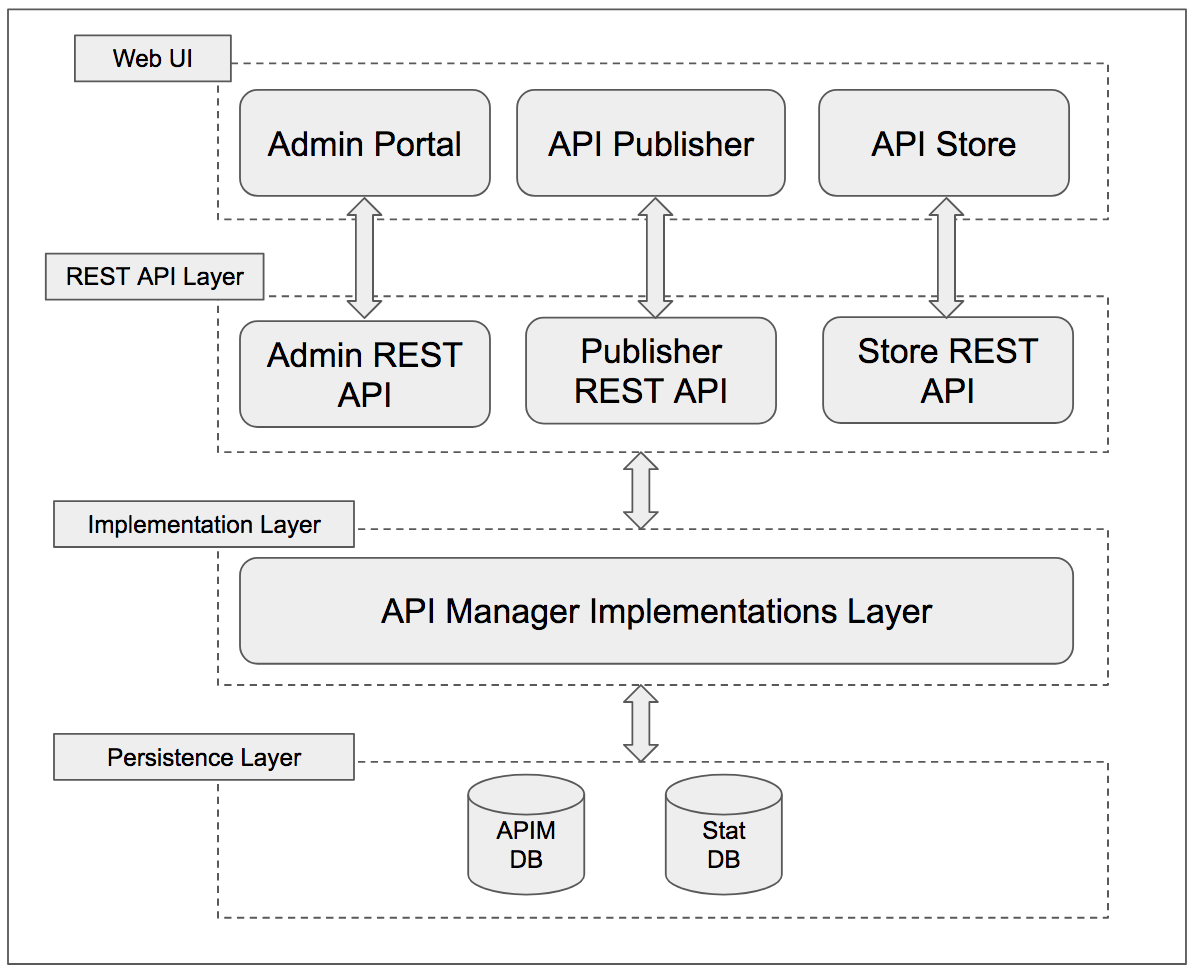
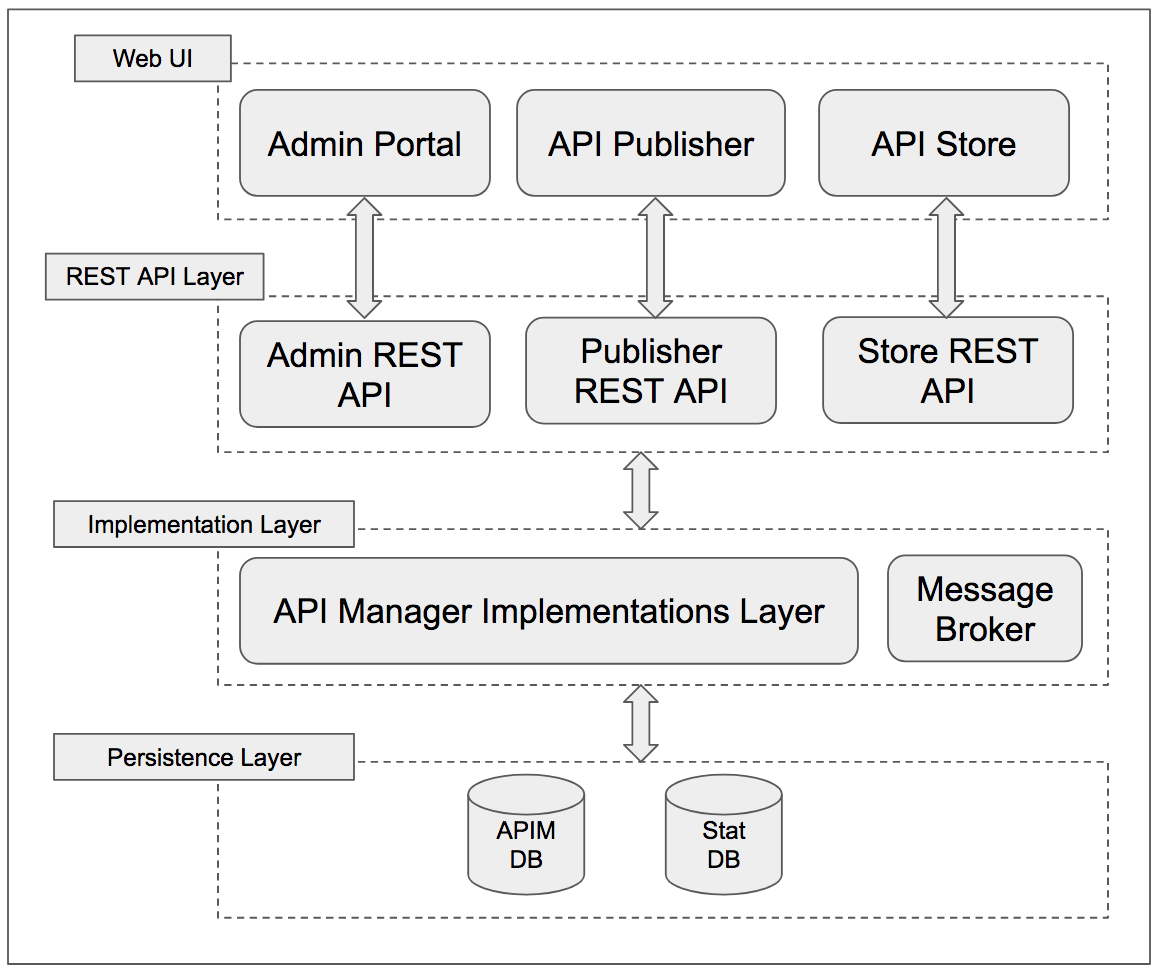
added MB into API core

diff --git a/docs/design/architecture.md b/docs/design/architecture.md
@@ -2,13 +2,13 @@
 
 API Manager consists of 5 main runtimes
 
-1. APIM Core
+1. API Core
 1. API Gateway
 1. Key Manager
 1. Traffic Manager
 1. Analytics
 
-## APIM Core
+## API Core
 
 API Core consists of several microservices. The following diagram depicts the aggregation of the subcomponents of the API Manager Core.
 
@@ -21,6 +21,7 @@ API Core consists of several microservices. The following diagram depicts the ag
 
 - The web applications consume the RESTful API layer underneath, which is written using swagger 2.0.0. The REST API layer provides a distinct set of REST APIs for the API Publisher, API Store and Admin portal.  
 - The business logic is implemented in the API Manager implementation layer. All the API Management related backend service implementations reside in this layer and they are exposed as microservices.  
+- Inbuilt lightweight Message Broker is provided reliable messaging platform from API Core to other API Management components. It's allowed to scale individual components independently.
 - The bottom most layer is the persistence layer where the API management related data is persisted. The data layer includes the API Manager database, which is dedicated to persisting API related data, and the Stat database, which is dedicated to persisting API analytics data.
 
 
